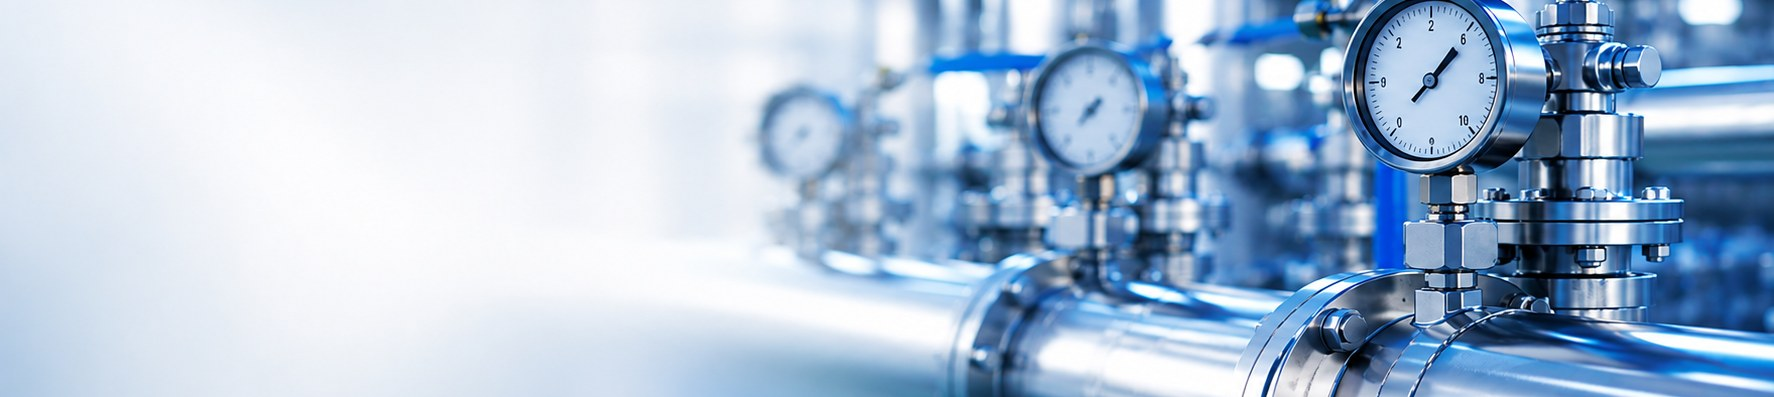
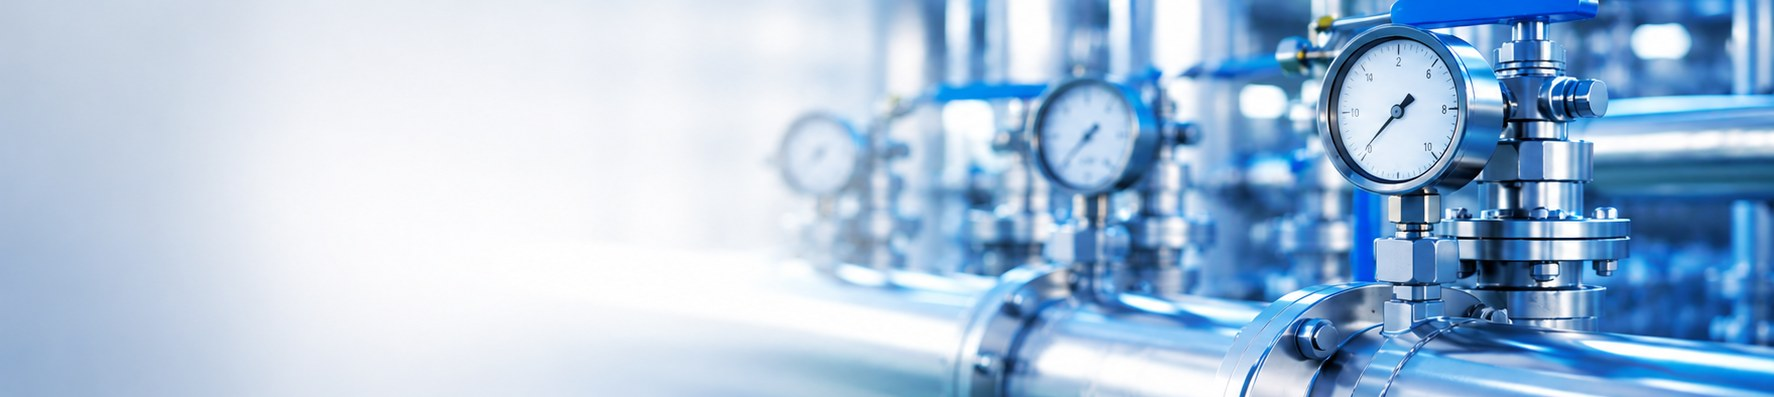
산업용가스 헤더: 배관·게이지 배경 이미지 교체(흰 여백 제거, 4.47:1)

diff --git a/products-gas.html b/products-gas.html
@@ -76,7 +76,7 @@
   </header>
 
   <section class="page-banner page-banner--overlay">
-    <img class="page-banner__bg" src="assets/images/site/page-hero-gas.jpg?v=20260710-5" alt="산업용가스 배관·계측 설비">
+    <img class="page-banner__bg" src="assets/images/site/page-hero-gas.jpg?v=20260715" alt="산업용가스 배관·계측 설비">
     <div class="gas-banner">
       <div class="gas-banner__wrap">
         <div class="gas-banner__col">